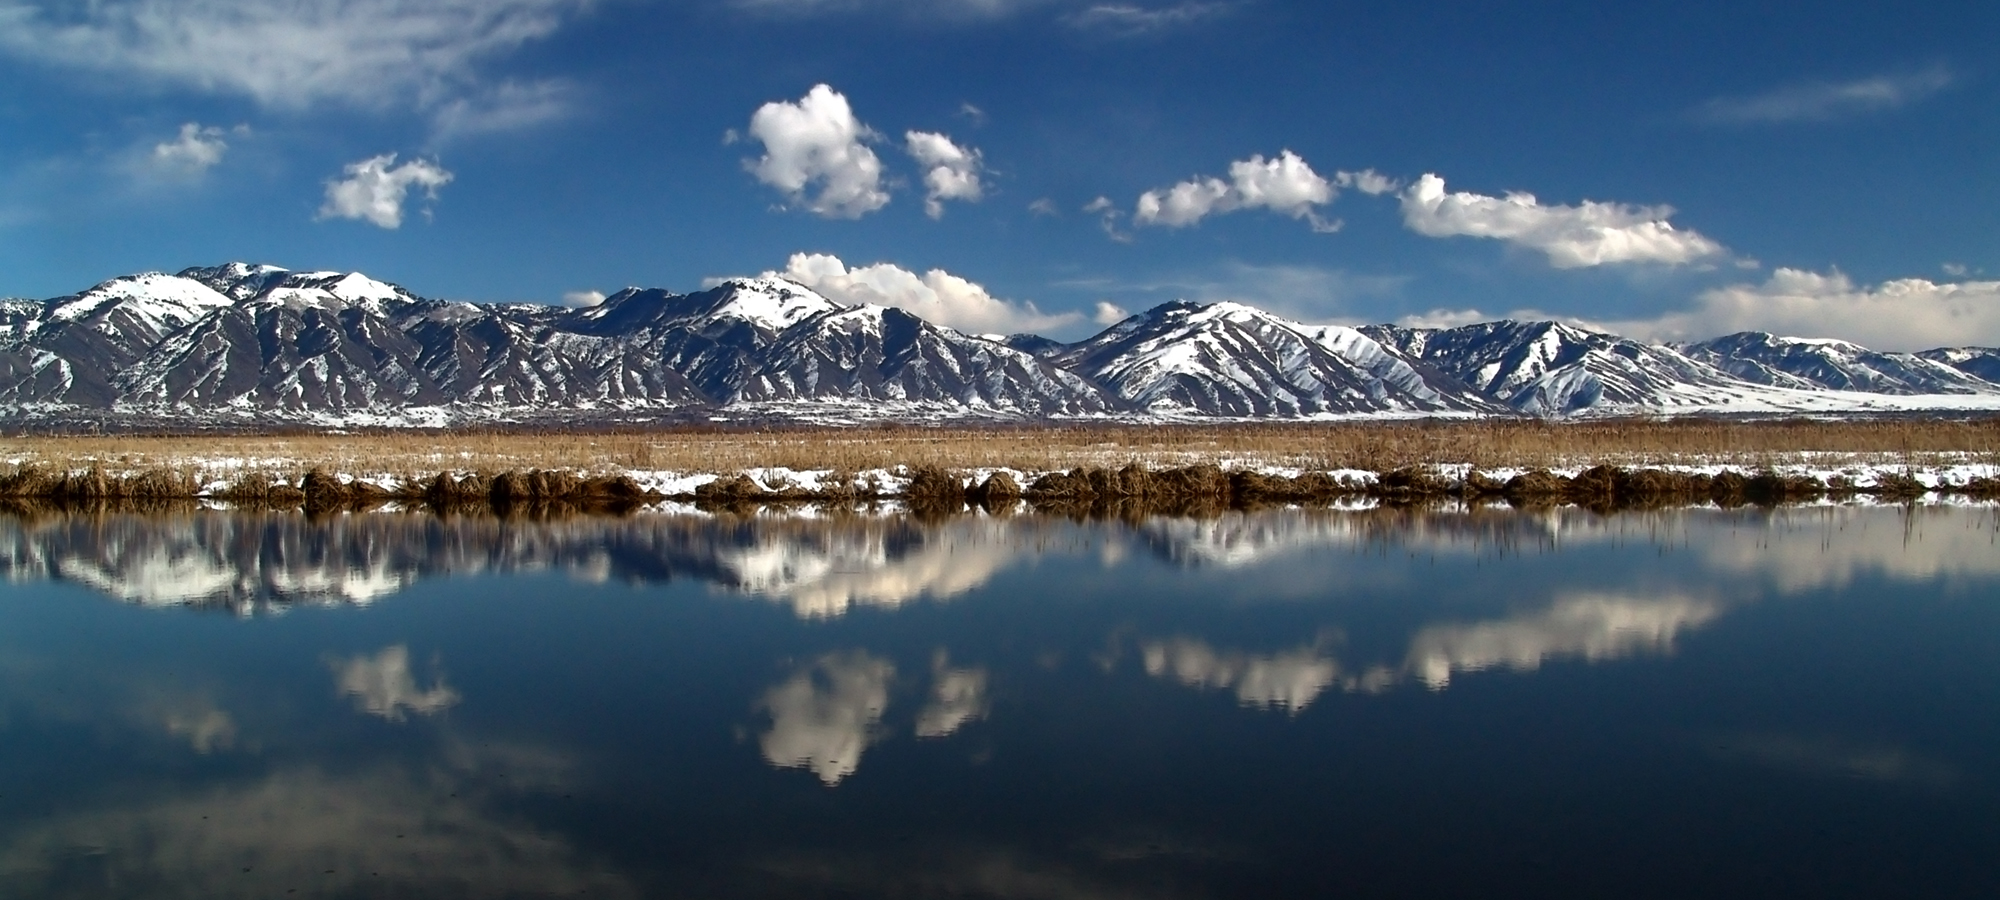
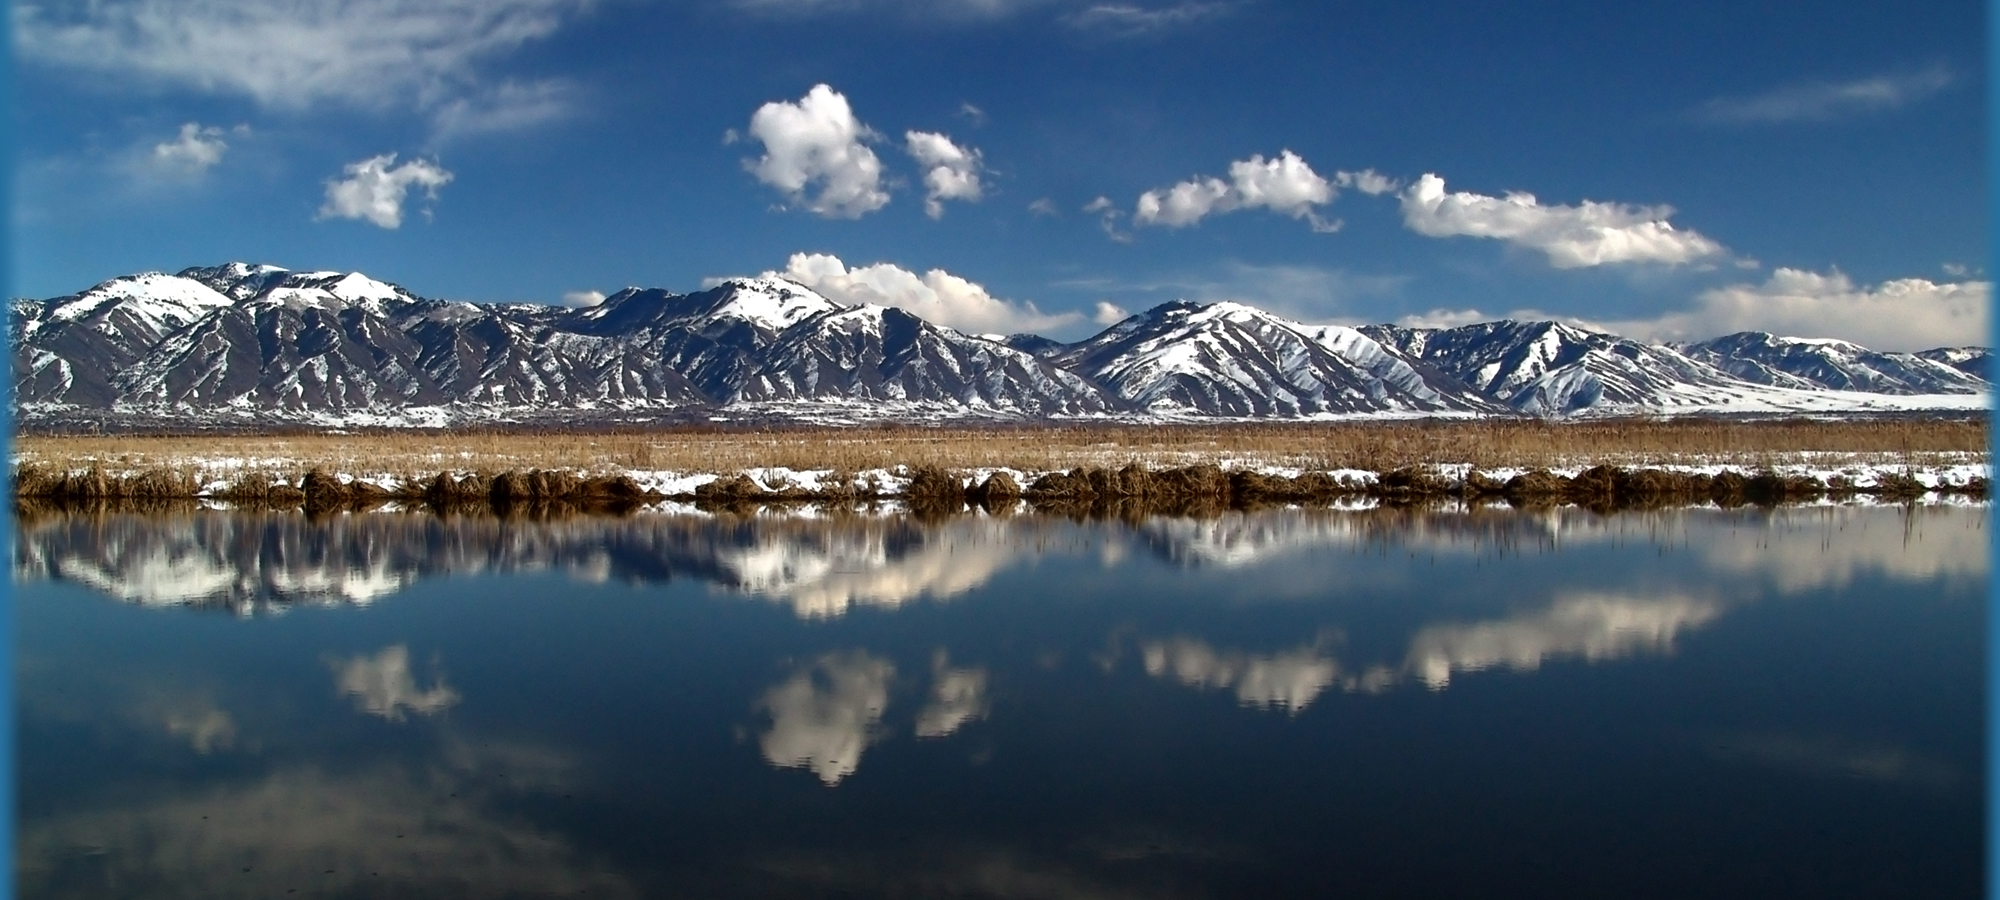
polished home animation

diff --git a/index.html b/index.html
@@ -49,9 +49,10 @@
           <a href="/contact">Let's Talk</a>
         </div>
 
-        <div class="twelve columns">
-          <h1><span class="pull_left top">I'm a freelance software developer</span> <span class="pull_right bottom">based in Salt Lake City, Utah.</span></h1>
-        </div>
+        <h1>
+          <span class="top">I'm a freelance software developer</span>
+          <span class="bottom">based in Salt Lake City, Utah.</span>
+        </h1>
       </div>
 
       <!--masthead
@@ -168,7 +169,7 @@
   <!--
   Include gumby.js followed by UI modules followed by gumby.init.js
   Or concatenate and minify into a single file -->
-  <script gumby-touch="js/libs" src="/bower_components/gumby/js/libs/gumby.js"></script>
+  <script gumby-touch="/scripts/vendor" src="/bower_components/gumby/js/libs/gumby.js"></script>
   <script src="/bower_components/gumby/js/libs/ui/gumby.retina.js"></script>
   <script src="/bower_components/gumby/js/libs/ui/gumby.fixed.js"></script>
   <script src="/bower_components/gumby/js/libs/ui/gumby.skiplink.js"></script>
@@ -179,6 +180,7 @@
   <script src="/bower_components/gumby/js/libs/ui/gumby.navbar.js"></script>
   <script src="/bower_components/gumby/js/libs/ui/jquery.validation.js"></script>
   <script src="/bower_components/gumby-parallax/gumby.parallax.js"></script>
+  <script src="/scripts/custom.js"></script>
   <script src="/bower_components/gumby/js/libs/gumby.init.js"></script>
 
   <!--

diff --git a/sass/_custom.scss b/sass/_custom.scss
@@ -28,23 +28,25 @@
   position: relative;
   height: 500px;
   width: 100%;
-  background: transparent url(/images/header/mountains.jpg) no-repeat center 0;
+  background: #266F9D url(/images/header/mountains.jpg) no-repeat center 0;
 
   h1 {
+    position: relative;
 
     span {
       background-color: rgba(255, 255, 255, 0.4);
       display: inline-block;
-      margin: 10px 0;
-      padding: 0 10px;
+      position: absolute;
+      top: 60px;
+      padding: 0 10px 10px 10px;
 
       &.top {
-        margin-top: 45px;
-        margin-left: -2000px;
+        left: -2000px;
       }
 
       &.bottom {
-        margin-right: -2000px;
+        top: 173px;
+        right: -2000px;
       }
     }
   }

diff --git a/scripts/custom.js b/scripts/custom.js
@@ -1,0 +1,13 @@
+(function() {
+  var animationSpeed = 1000;
+
+  if ($('.masthead')) {
+    $('h1 span.top').animate({
+      left: 0
+    }, animationSpeed, function() {
+      $('h1 span.bottom').animate({
+        right: 0
+      }, animationSpeed);
+    });
+  }
+})();
